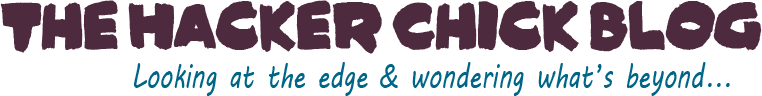
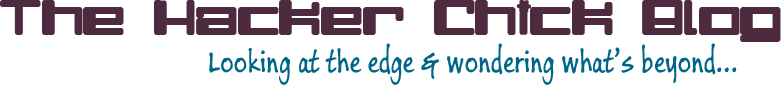
Created menu, removed About, made header shorter still & moved top of sidebar into actual sidebar (note social media hovers don't work yet)

diff --git a/hackerchick/style.css b/hackerchick/style.css
@@ -45,38 +45,39 @@ a:active{ color: #F93; }
 
 /* HEADER */
 #header{
-    background: url('./images/header-background.png') no-repeat;
-    height: 164px;
+    height: 115px;
     width: 1024px;
     text-align:left;
     margin:0;
     padding:0;
 }
 
-#headerimg{
-    height:96px;
-    width:762px;
-    position:absolute;
-    margin: 0px;
-    padding: 20px 0px 0px 24px; /* top right bottom left */
+#menu{
+    padding: 5px 10px 0px 10px; /* top right bottom left */
+}
+a.menu_item{
+    color:#068;
+    font-family:"Arial Black", Gadget, sans-serif;
+    font-variant:small-caps;
+    font-size:12pt;
+    font-weight:500;
+    padding: 0px 10px 0px 10px; /* top right bottom left */
 }
 
-.aboutLink {
-    background: url('./images/about.png') bottom;
-    width: 206px;
-    height: 73px;
+#headerimg{
+    height:85px;
+    width:781px;
     position:absolute;
-    padding:0;
-    margin: 115px 0px 0px 9px; /* top right bottom left */
+    margin: 0px;
+    padding: 12px 0px 0px 20px; /* top right bottom left */
 }
-.aboutLink:hover {  background-position: 0 0; }
 
 #top_links{
     height: 56px;
     width: 270px;
     padding:0;
     float:right;
-    margin-top:91px;
+    margin-top:0px;
     margin-right:-5px;
 }
 
@@ -413,23 +414,18 @@ a:active{ color: #F93; }
     height:560px;
 }
 
-/* note: this actually goes in the header */
-#top_of_sidebar{
-    height: 47px;
-    width: 134px;
-    padding:0;
-    float:right;
-    position:absolute;
-    margin-top:17px;  /* top of "Hacker" heading */
-    margin-left:754px;  /* content width (740) + sidebar_content padding-left (14) */
-}
-
 .sidebar_content{
     position:absolute;  /* without this, the content gets pushed to underneath of the sidebar in IE */
     padding: 28px 10px 0px 14px; /* top right bottom left */ /* top padding is to leave room for "Hacker" title which is actually in the Header */
     margin: 0;
     text-align:left;
     line-height:125%;
+}
+
+.sidebar_content .first_item{
+    width:260px;     /* sidebar width (284) - padding right & left (24) */
+    padding-bottom:20px;
+    padding-top:0px;
 }
 
 .sidebar_content .item{

diff --git a/hackerchick/header.php b/hackerchick/header.php
@@ -72,32 +72,17 @@ function CancelDefaultMouseoverDisplay(id){
 <!-- HEADER                                                                                                                    -->
 <!-- ************************************************************************************************************************* -->
 <div id="header">
+
+   <div id="menu">
+      <a class="menu_item" href="<?php echo get_option('home'); ?>">Blog</a> 
+      <a class="menu_item" href="<?php echo get_option('home'); ?>/about">About</a> 
+      <a class="menu_item" href="<?php echo get_option('home'); ?>/resume">Resume</a> 
+      <a class="menu_item" href="http://www.slideshare.net/HackerChick" target=_new>Presentations</a> 
+   </div>      
           
     <div id="headerimg">
-        <a href="<?php echo get_option('home'); ?>/"><img src="<?php bloginfo('template_directory'); ?>/images/title.png" width="762" height="96" border="0" alt="The Hacker Chick Blog: Looking at the edge &amp; wondering what's beyond" /></a>
-    </div>
-           
-    <a class="aboutLink" href="<?php echo get_option('home'); ?>/about">&nbsp;</a> 
-
-    <!-- SOCIAL MEDIA LINKS -->
-    <div class="mouseover-hint" id="mouseover-twitter"><img src="<?php bloginfo('template_directory'); ?>/images/follow-me.png" width="148" height="56"></div>
-    <div class="mouseover-hint" id="mouseover-facebook"><img src="<?php bloginfo('template_directory'); ?>/images/share-on-facebook.png" width="230" height="76"></div>
-    <div class="mouseover-hint" id="mouseover-linkedin"><img src="<?php bloginfo('template_directory'); ?>/images/see-connected.png" width="157" height="55"></div>
-    <div class="mouseover-hint" id="mouseover-rss"><img src="<?php bloginfo('template_directory'); ?>/images/subscribe.png" width="153" height="67"></div>
-    
-    <div id="top_links">
-        <a href="http://www.twitter.com/HackerChick" target="_blank" onmouseover="ShowPicture('mouseover-twitter')" onmouseout="HidePicture('mouseover-twitter')"><img src="<?php bloginfo('template_directory'); ?>/images/twitter.png" width="60" height="56" border="0" alt="Follow The Hacker Chick on Twitter" /></a>
-        <a href="http://www.facebook.com/HackerChickLabs" target="_blank" onmouseover="ShowPicture('mouseover-facebook')" onmouseout="HidePicture('mouseover-facebook')"><img src="<?php bloginfo('template_directory'); ?>/images/facebook.png" width="60" height="56" border="0" alt="Share how you're pushing the edge on Hacker Chick Labs" /></a>
-        <a href="http://www.linkedin.com/in/abbyfichtner" target="_blank" onmouseover="ShowPicture('mouseover-linkedin')" onmouseout="HidePicture('mouseover-linkedin')"><img src="<?php bloginfo('template_directory'); ?>/images/linkedin.png" width="60" height="56" border="0" alt="See how we're connected on LinkedIn" /></a>
-        <a href="http://feeds.feedburner.com/TheHackerChickBlog" target="_blank" onmouseover="ShowPicture('mouseover-rss')" onmouseout="HidePicture('mouseover-rss')"><img src="<?php bloginfo('template_directory'); ?>/images/rss.png" width="60" height="56" border="0" alt="Subscribe to The Hacker Chick Blog" /></a>
+        <a href="<?php echo get_option('home'); ?>/"><img src="<?php bloginfo('template_directory'); ?>/images/title.png" width="781" height="85" border="0" alt="The Hacker Chick Blog: Looking at the edge &amp; wondering what's beyond" /></a>
     </div>
 
-    <!-- TOP OF THE SIDEBAR (yes, this is awkward) -->
-    <div style="clear: both;"></div> 
-    <div id="top_of_sidebar">
-    <img src="<?php bloginfo('template_directory'); ?>/images/hacker.png" width="134" height="27" alt="Hacker" border="0"/>
-    </div>
-
-    </div>
-<div style="clear: both;"></div> 
+</div>
 <!-- HEADER: END -->

diff --git a/hackerchick/sidebar.php b/hackerchick/sidebar.php
@@ -9,6 +9,21 @@
 <!-- SIDEBAR                                                                                                                  -->
 <!-- ************************************************************************************************************************* -->
 <div id="sidebar">
+           
+    <!-- SOCIAL MEDIA LINKS -->
+    <div class="mouseover-hint" id="mouseover-twitter"><img src="<?php bloginfo('template_directory'); ?>/images/follow-me.png" width="148" height="56"></div>
+    <div class="mouseover-hint" id="mouseover-facebook"><img src="<?php bloginfo('template_directory'); ?>/images/share-on-facebook.png" width="230" height="76"></div>
+    <div class="mouseover-hint" id="mouseover-linkedin"><img src="<?php bloginfo('template_directory'); ?>/images/see-connected.png" width="157" height="55"></div>
+    <div class="mouseover-hint" id="mouseover-rss"><img src="<?php bloginfo('template_directory'); ?>/images/subscribe.png" width="153" height="67"></div>
+    
+    <center><div id="top_links">
+        <a href="http://www.twitter.com/HackerChick" target="_blank" onmouseover="ShowPicture('mouseover-twitter')" onmouseout="HidePicture('mouseover-twitter')"><img src="<?php bloginfo('template_directory'); ?>/images/twitter.png" width="60" height="56" border="0" alt="Follow The Hacker Chick on Twitter" /></a>
+        <a href="http://www.facebook.com/HackerChickLabs" target="_blank" onmouseover="ShowPicture('mouseover-facebook')" onmouseout="HidePicture('mouseover-facebook')"><img src="<?php bloginfo('template_directory'); ?>/images/facebook.png" width="60" height="56" border="0" alt="Share how you're pushing the edge on Hacker Chick Labs" /></a>
+        <a href="http://www.linkedin.com/in/abbyfichtner" target="_blank" onmouseover="ShowPicture('mouseover-linkedin')" onmouseout="HidePicture('mouseover-linkedin')"><img src="<?php bloginfo('template_directory'); ?>/images/linkedin.png" width="60" height="56" border="0" alt="See how we're connected on LinkedIn" /></a>
+        <a href="http://feeds.feedburner.com/TheHackerChickBlog" target="_blank" onmouseover="ShowPicture('mouseover-rss')" onmouseout="HidePicture('mouseover-rss')"><img src="<?php bloginfo('template_directory'); ?>/images/rss.png" width="60" height="56" border="0" alt="Subscribe to The Hacker Chick Blog" /></a>
+    </div></center>
+
+    <div style="clear: both;"></div> 
 
     <!-- HACKER CHICK -->
     <div id="hackerchick"></div>
@@ -18,7 +33,7 @@
 
     <!-- HACKER -->
     <div class="item">
-    <!-- NOTE: Title Image"Hacker" is in the Header -->
+       <img src="<?php bloginfo('template_directory'); ?>/images/hacker.png" width="134" height="27" alt="Hacker" border="0"/>
     <p>Someone who thinks outside the box. Someone who discards conventional wisdom and does something else instead. Someone who looks at the edge and wonders what's beyond. Someone who sees a set of rules and wonders what happens if you don't follow them. <font size="-1"><em>- Bruce Schneier</em></font></p>
     </div>
     <!-- HACKER: END -->
